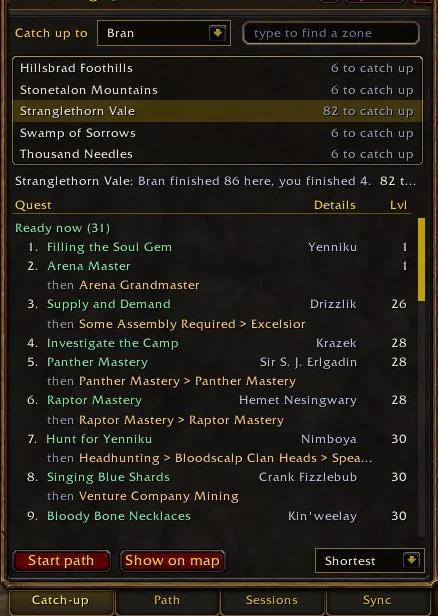
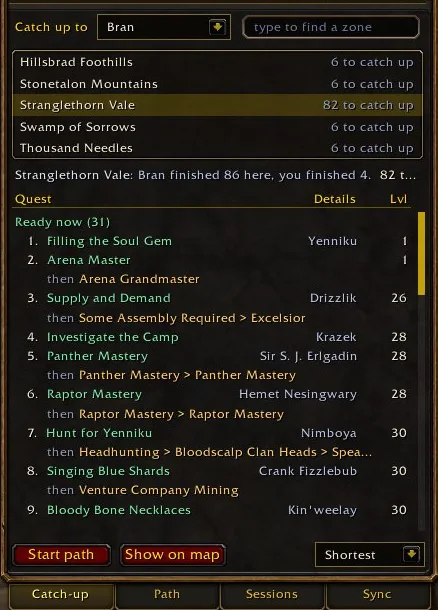
Crop old title bars off the Catch-up and Path shots

diff --git a/site/index.html b/site/index.html
@@ -104,11 +104,11 @@
                         <figcaption>Each friend's progress on a quest, right in the quest log.</figcaption>
                     </figure>
                     <figure class="shot tall" role="tabpanel" id="shot-catchup" aria-labelledby="tab-catchup" hidden>
-                        <img src="/img/catchup.webp" width="438" height="616" loading="lazy" alt="The Catch-up tab: zones with how many quests to catch up, and the quests in Stranglethorn Vale in order.">
+                        <img src="/img/catchup.webp" width="438" height="610" loading="lazy" alt="The Catch-up tab: zones with how many quests to catch up, and the quests in Stranglethorn Vale in order.">
                         <figcaption>Catch-up lists what a friend finished that you haven't, zone by zone.</figcaption>
                     </figure>
                     <figure class="shot tall" role="tabpanel" id="shot-path" aria-labelledby="tab-path" hidden>
-                        <img src="/img/path.webp" width="472" height="621" loading="lazy" alt="The Path tab: the next step, pick up Tiger Mastery, with its waypoint and the steps after it.">
+                        <img src="/img/path.webp" width="472" height="617" loading="lazy" alt="The Path tab: the next step, pick up Tiger Mastery, with its waypoint and the steps after it.">
                         <figcaption>The Path tab walks you through it, one stop at a time.</figcaption>
                     </figure>
                     <figure class="shot tall" role="tabpanel" id="shot-sync" aria-labelledby="tab-sync" hidden>
